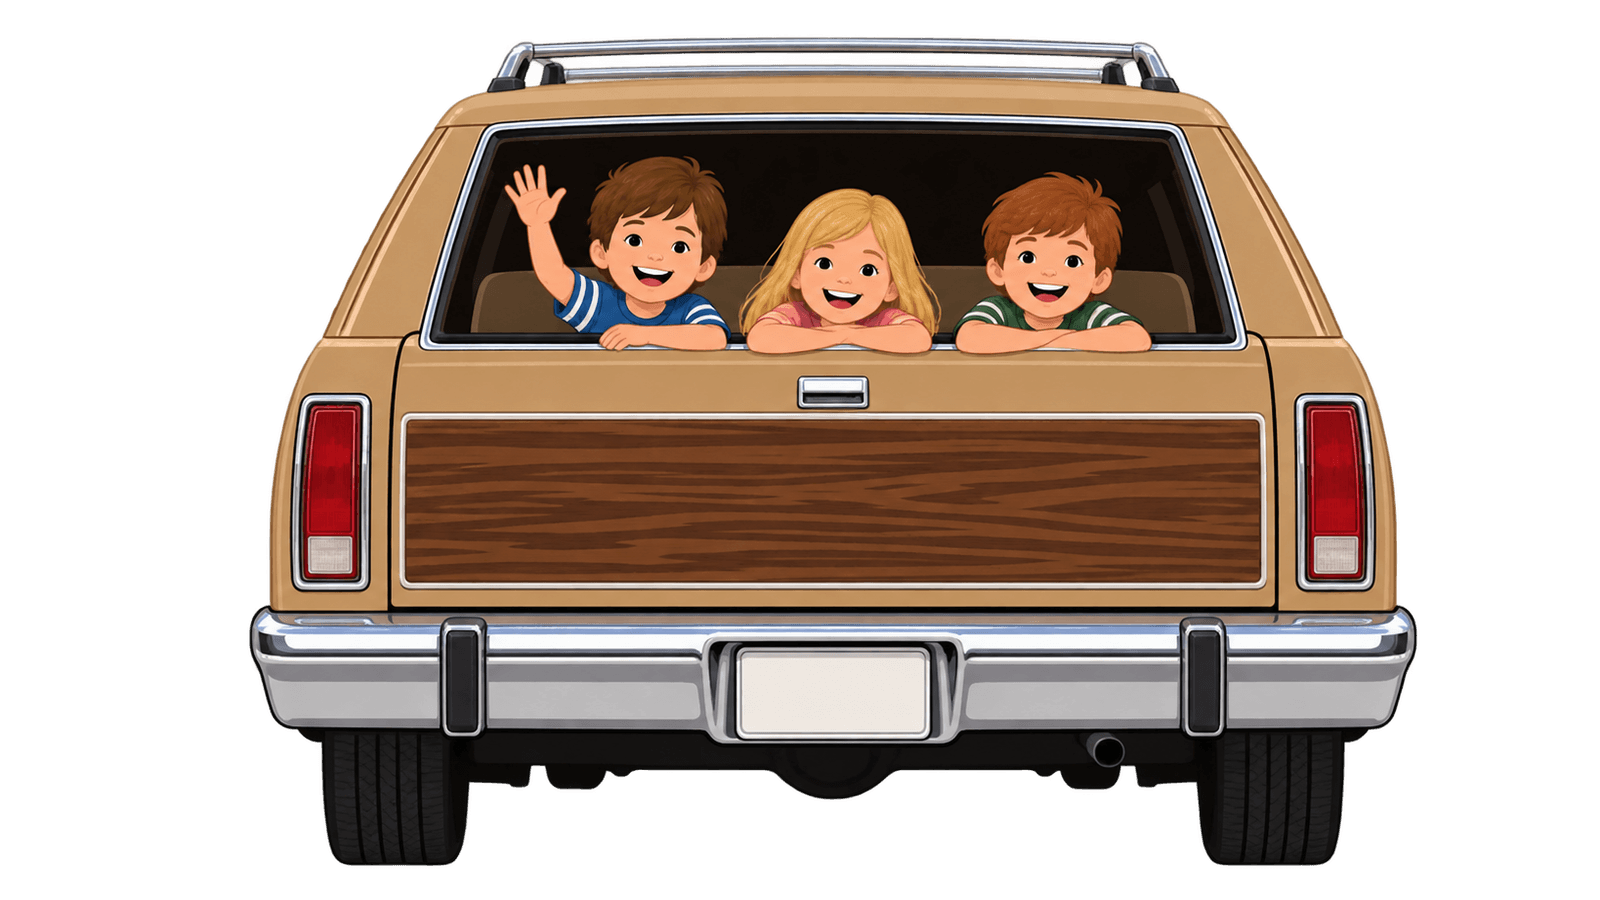
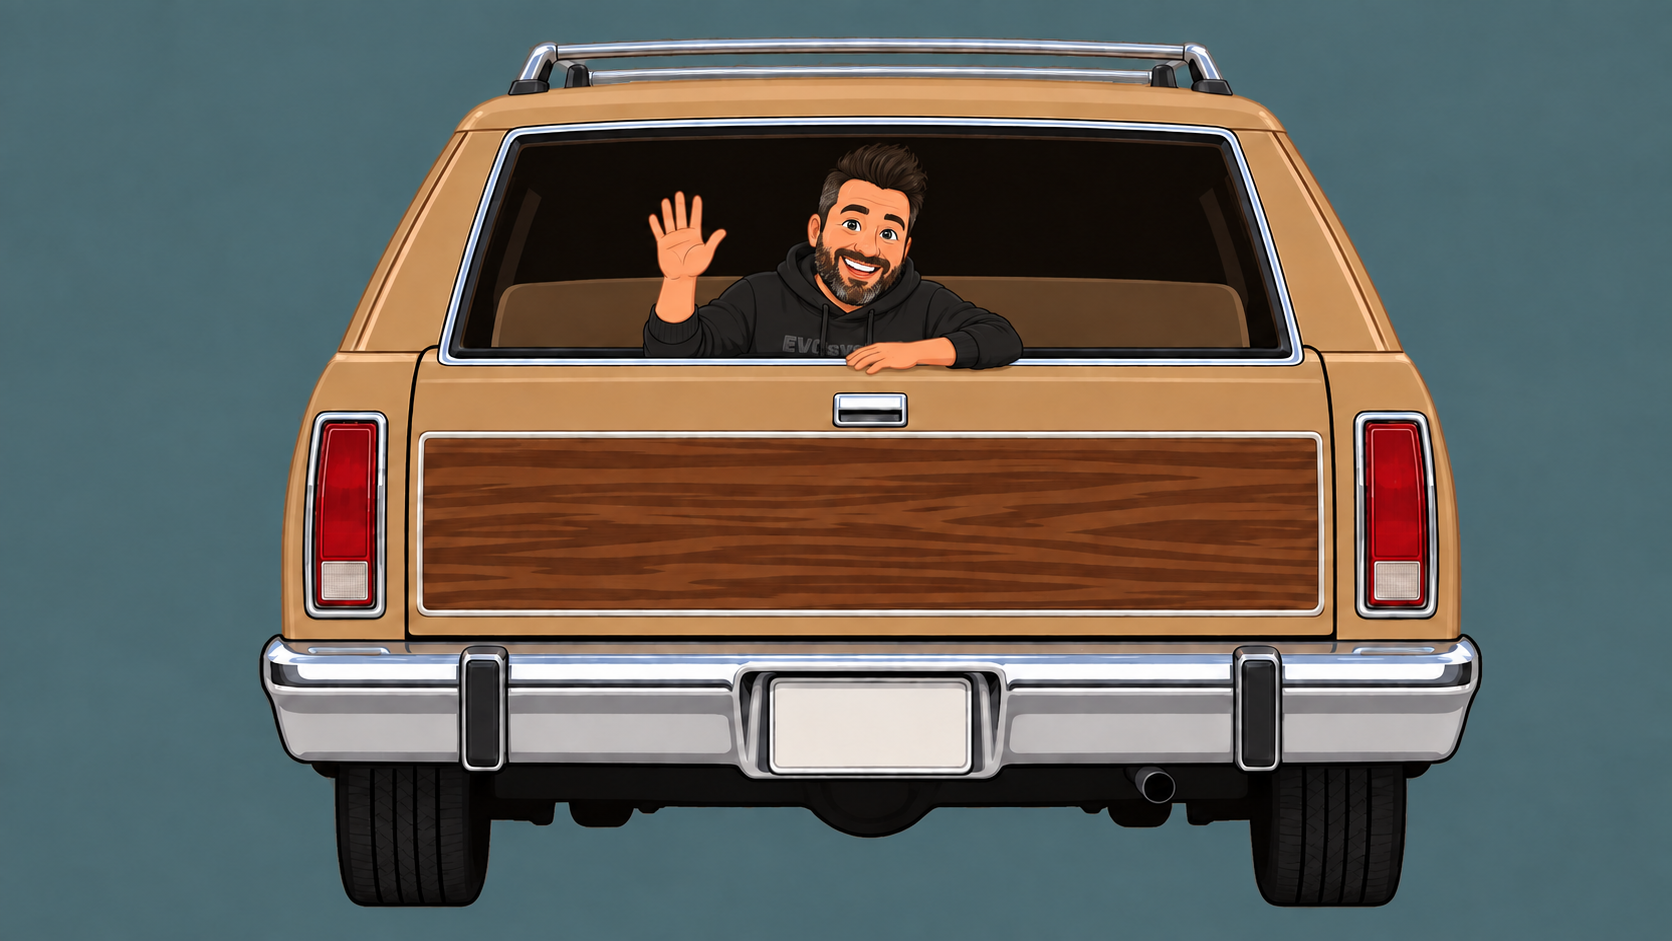
feat: personalize About Me portrait and theater car artwork

diff --git a/index.html b/index.html
@@ -186,7 +186,7 @@
               <div class="about__photo-ring">
                 <img
                   class="about__photo"
-                  src="images/linkedin.jpeg"
+                  src="images/evan-about.png"
                   alt="Evan Leon"
                   width="174"
                   height="174"

diff --git a/docs/session-logs/2026-09-09-14-48-codex-about-portrait.md b/docs/session-logs/2026-09-09-14-48-codex-about-portrait.md
@@ -18,10 +18,10 @@ Revised the portrait on user feedback: replaced the open collar with the origina
 `a849bc3` — initial session log commit inadvertently included concurrently staged documentation changes; disclosed to user, history not rewritten.
 
 ## Uncommitted work left behind
-theater/public/art/car.png contains the requested illustrated occupant replacement.
-index.html and images/evan-about.png contain the requested portrait update. Pre-existing docs/plans deletion and docs/planning files left untouched.
+None. User requested committing all remaining changes: the About Me reference, final portrait, and theater car illustration.
 
 ## Verification
+Final commit checks: Prettier check on index.html and git diff --check passed; configured pre-commit hook remains enabled.
 Car update: Docker build (including theater TypeScript check and Vite build) and recreation passed. /theater/art/car.png returned HTTP 200 and SHA-256 matched the source. git diff --check passed.
 Prettier check on index.html and git diff --check passed. Docker build and recreation passed after sandbox escalation. Homepage and portrait returned HTTP 200. Served portrait SHA-256 matches source and homepage references new asset.
 Fold-back audit: no pending decisions; one pre-existing APPLIED_NO_COMMIT finding.
